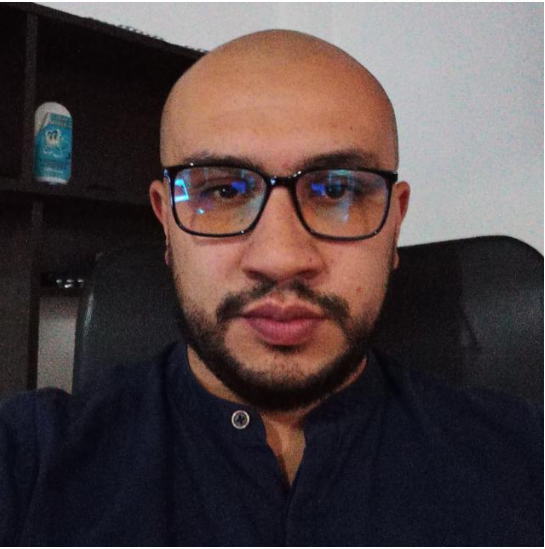
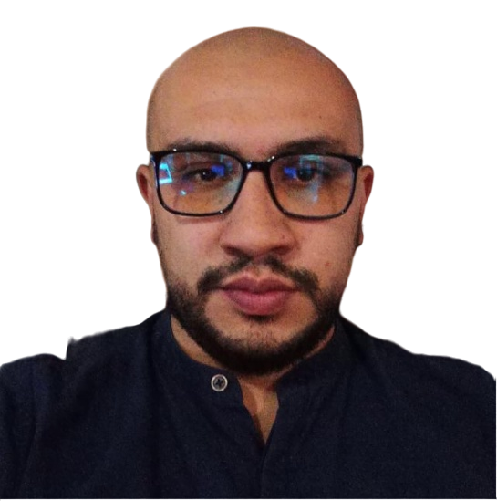
new files Added

diff --git a/portafolio-official/src/Components/header/header.css b/portafolio-official/src/Components/header/header.css
@@ -40,25 +40,42 @@ header{
 
 /*==============ME=============*/
 .me {
-    background: linear-gradient(var
-    (--color-primary),transparent);
-    width: 22rem;
-    height: 300rem;
-    position: absolute;
-    left: 50%;
-    margin-top: 4rem;
-    transform: translateX(-50%);
-    border-radius: 12rem 12rem 0 0;
-    overflow: hidden;
-    padding: 5rem 1.5rem 1.5rem 1.5rem;
+background-color: linear-gradient(var
+(--color-primary),transparent);
+width: 22rem;
+height: 22rem;
+margin: 0 auto;
+border-radius: 15rem 15rem 0 0;
+overflow: hidden;
+padding: 5rem 1.5rem 1.5rem 1.5rem;
 }
 
-/*=============SCROLLDOWN==========*/
-.scroll___down {
+/*=================SCROLLDOWN======================*/
+.scroll__down{
     position: absolute;
     right: -2.3rem;
     bottom: 5rem;
     transform: rotate(90deg);
-    font-weight: 200;
-    font-size:0.9rem;
+    font-weight: 300;
+    font-size: 0.9rem;
+}
+
+/*==========MEDIA QUERIES(MEDIUM DEVICES)===========*/
+@media screen and (max-width: 1024px){
+    header{
+        height: 68vh;
+    }
+}
+
+
+/*==========MEDIA QUERIES(SMALL DEVICES)===========*/
+@media screen and (max-width: 600px){
+    header{
+     height: 60vh;
+    }
+
+    .header__socials,
+    .scroll__down{
+        display: none;
+    }
 }

diff --git a/portafolio-official/src/Components/header/Header.jsx b/portafolio-official/src/Components/header/Header.jsx
@@ -1,7 +1,7 @@
 import React from 'react'
 import CTA from './CTA.jsx'
 import './header.css'
-import ME from '../../assets/mi foto.PNG'
+import ME from '../../assets/mi foto.png'
 import HeaderSocial from './HeaderSocial.jsx'
 
 const Header = () => {
@@ -13,11 +13,11 @@ const Header = () => {
                 <h5 className="text-light">Fullstack and Gamedeveloper</h5>
                 <CTA/>
                 <HeaderSocial/>
-
-            
+                <div className='me'>                
                     <img src={ME} alt="me" />
+                </div>
                 
-                <a href="#contact" className='scroll__down'>Scroll Down</a>
+                <a href="#contact" className="scroll__down">Scroll Down</a>
             </div>
         </header>
     )

diff --git a/portafolio-official/src/Components/nav/Nav.jsx b/portafolio-official/src/Components/nav/Nav.jsx
@@ -3,7 +3,9 @@ import './nav.css'
 
 const Nav = () => {
     return (
-        <div>Nav</div>
+        <div>
+            <a href="#"></a>
+        </div>
     )
 }
 
